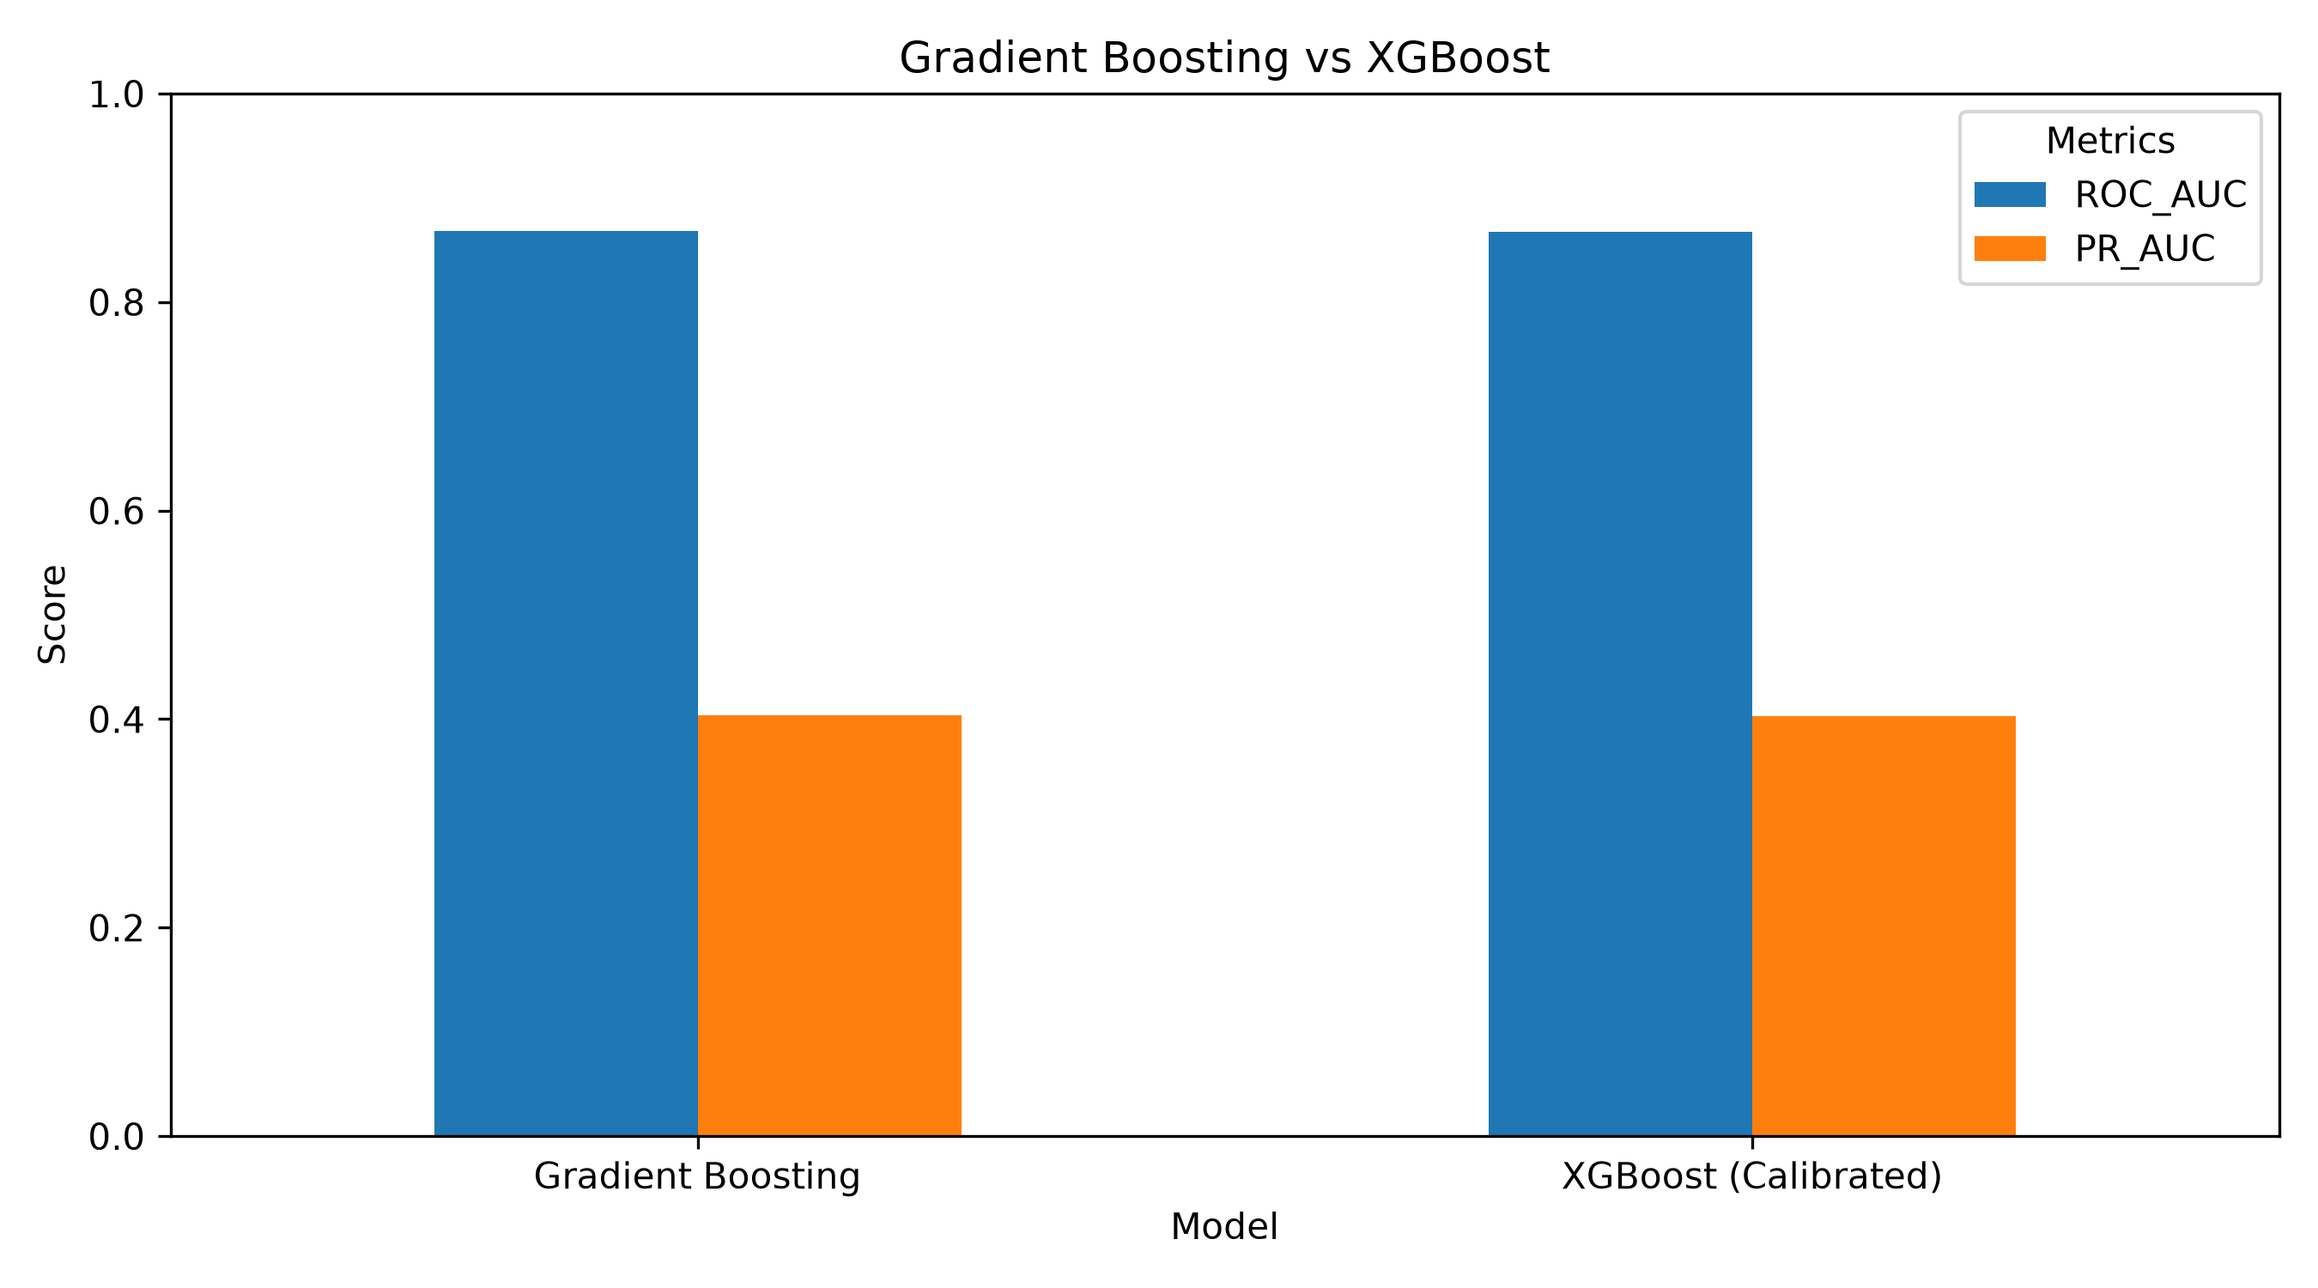
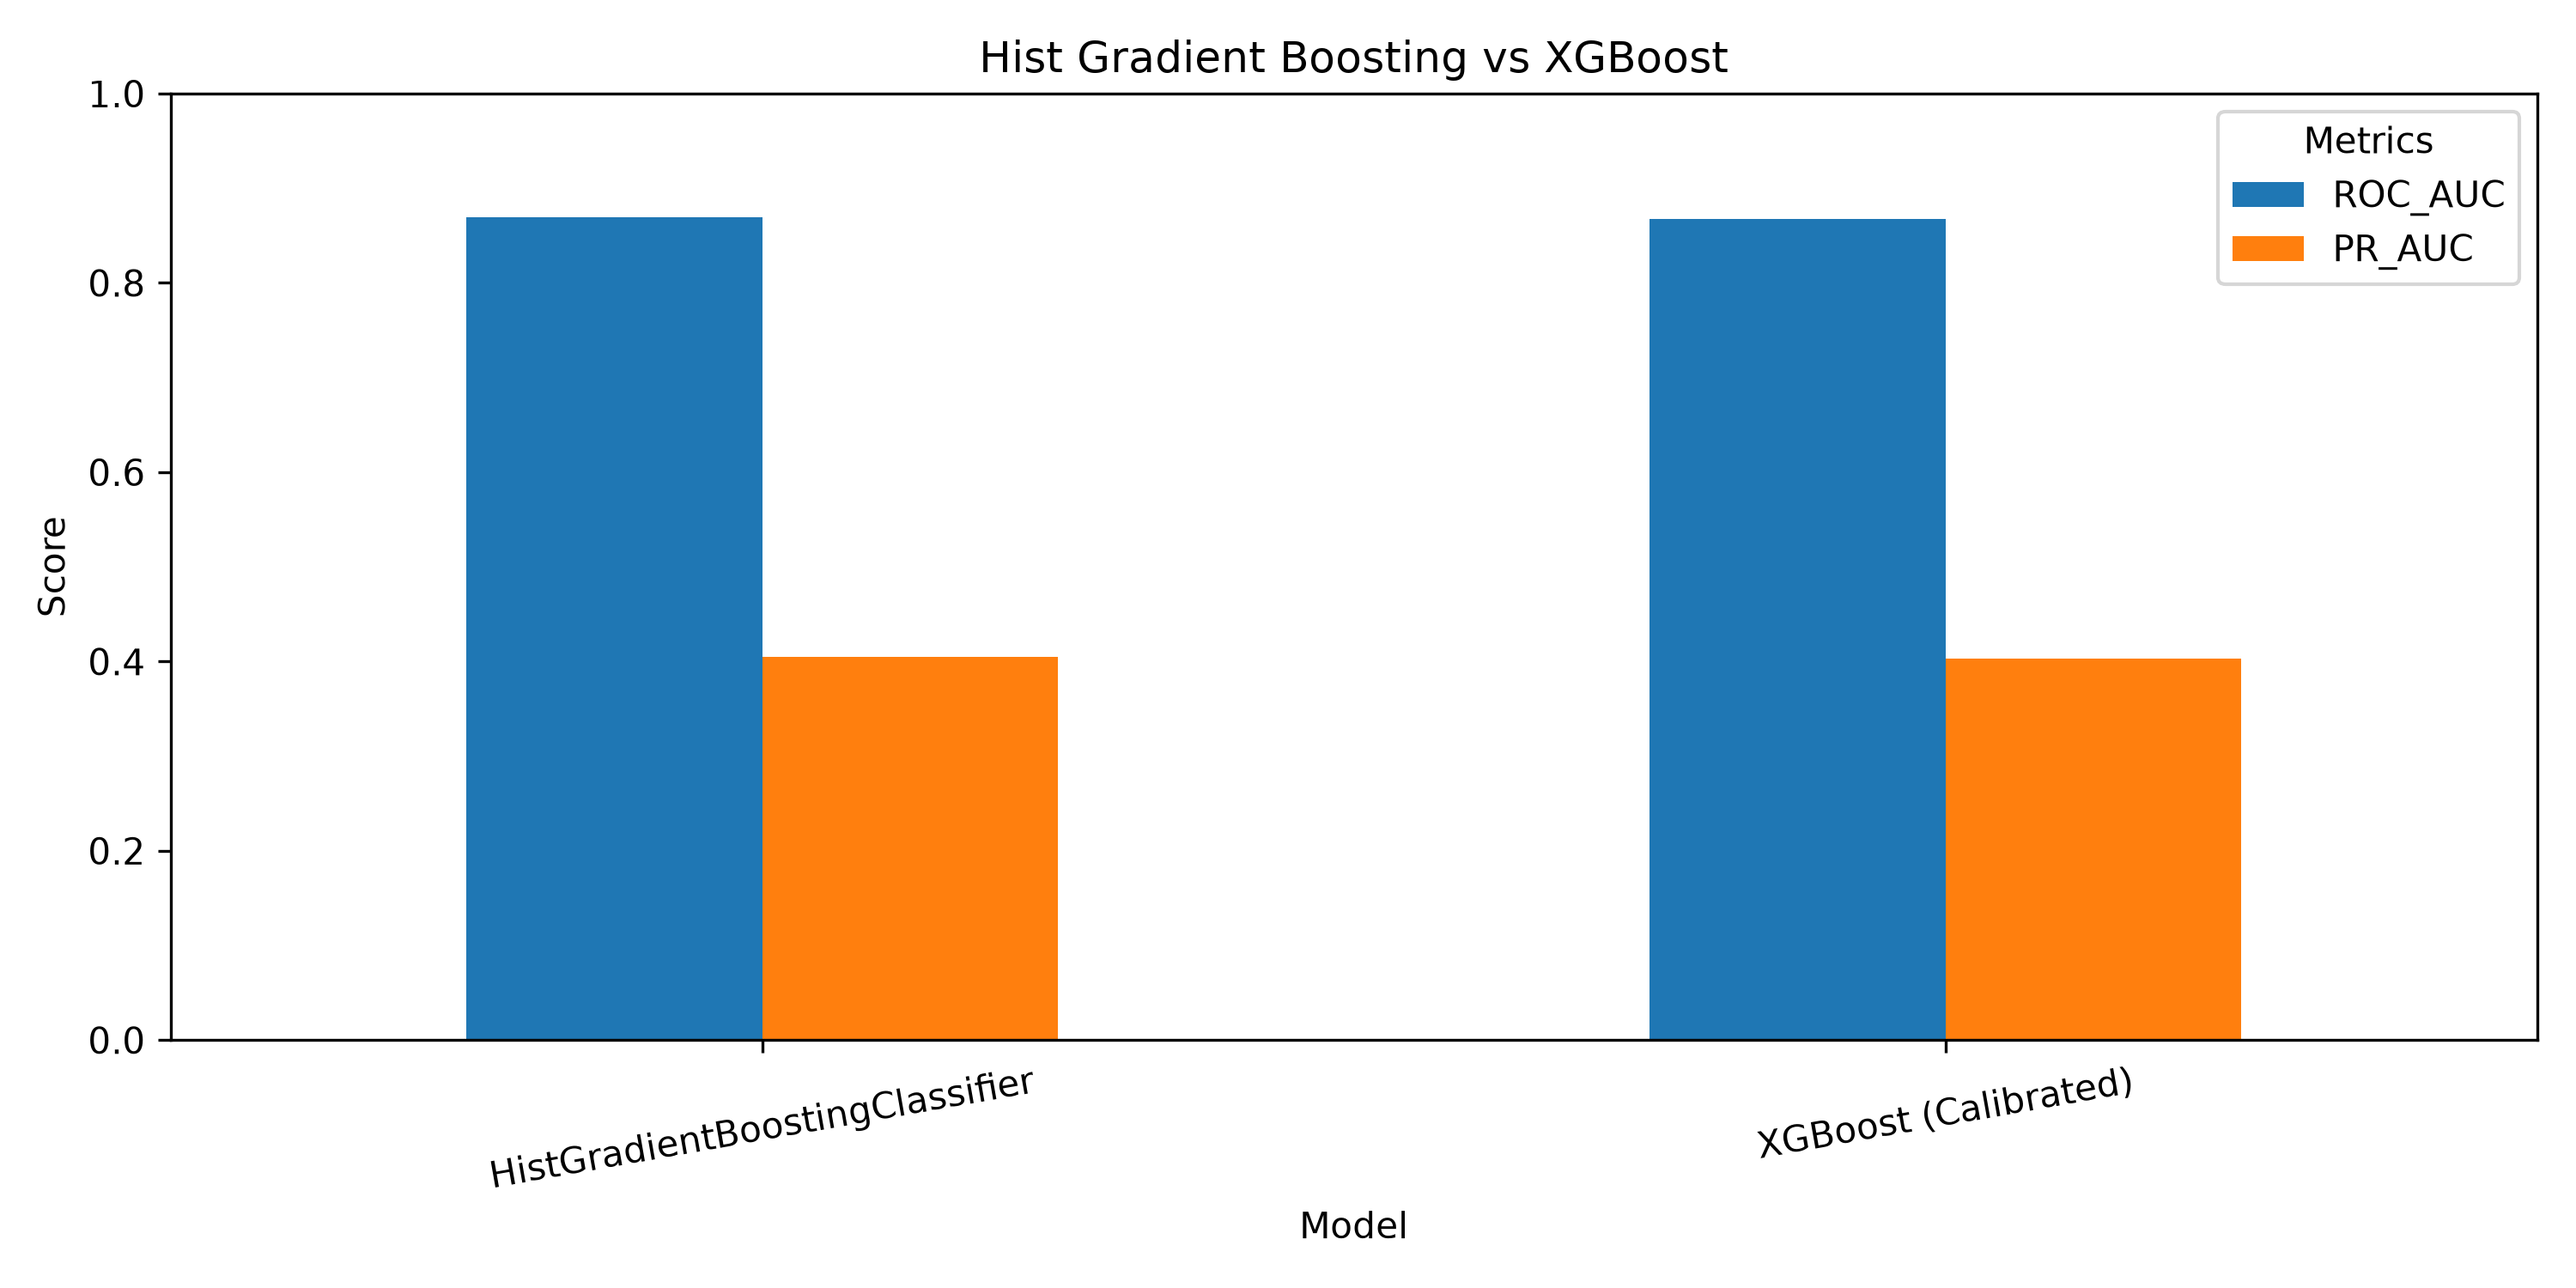
Add files via upload

diff --git a/member3_Contribution/member3_shap.py b/member3_Contribution/member3_shap.py
@@ -1,122 +1,124 @@
+
 import os
 import pandas as pd
 import numpy as np
 import matplotlib.pyplot as plt
 import shap
 
-from sklearn.ensemble import GradientBoostingClassifier
+from sklearn.ensemble import HistGradientBoostingClassifier
 from sklearn.metrics import (
     classification_report,
     confusion_matrix,
     roc_auc_score,
-    average_precision_score,
-    precision_recall_curve
+    average_precision_score
 )
 from sklearn.utils.class_weight import compute_sample_weight
 
-# Load the team's datasets
+# Load datasets
 train = pd.read_csv("train.csv")
 test = pd.read_csv("test.csv")
 
 target = "SeriousDlqin2yrs"
 
-# Separate features and target
 X_train = train.drop(columns=[target])
 y_train = train[target]
 
 X_test = test.drop(columns=[target])
 y_test = test[target]
 
-# Train Gradient Boosting with balanced sample weights
+# Balanced sample weights
 weights = compute_sample_weight("balanced", y_train)
 
-model = GradientBoostingClassifier(
-    n_estimators=100,
+# Hist Gradient Boosting Model
+model = HistGradientBoostingClassifier(
+    max_iter=100,
     learning_rate=0.1,
-    max_depth=3,
+    max_leaf_nodes=15,
     random_state=42
 )
 
 model.fit(X_train, y_train, sample_weight=weights)
 
-# Predict probabilities and classes
+# Predictions
 probabilities = model.predict_proba(X_test)[:, 1]
 predictions = (probabilities >= 0.5).astype(int)
 
-# Evaluation metrics
-print("Confusion Matrix:")
+# Evaluation
+print("MODEL: HistGradientBoostingClassifier")
+print("\nConfusion Matrix:")
 print(confusion_matrix(y_test, predictions))
 
 print("\nClassification Report:")
 print(classification_report(y_test, predictions, zero_division=0))
 
 print("ROC-AUC:", roc_auc_score(y_test, probabilities))
-print("PR-AUC (Average Precision):",
-      average_precision_score(y_test, probabilities))
+print("PR-AUC:", average_precision_score(y_test, probabilities))
 
-# SHAP explanations
-explainer = shap.TreeExplainer(model)
-shap_values = explainer.shap_values(X_test)
+# SHAP explanation using permutation explainer
+# HistGradientBoosting is explained through model predictions
+background = X_train.sample(
+    n=min(100, len(X_train)), random_state=42
+)
 
-# Global feature importance
-shap.summary_plot(shap_values, X_test, show=False)
+X_explain = X_test.sample(
+    n=min(500, len(X_test)), random_state=42
+)
+
+def predict_positive(data):
+    data = pd.DataFrame(data, columns=X_train.columns)
+    return model.predict_proba(data)[:, 1]
+
+explainer = shap.Explainer(
+    predict_positive,
+    background,
+    algorithm="permutation"
+)
+
+shap_values = explainer(
+    X_explain,
+    max_evals=2 * X_train.shape[1] + 1
+)
+
+# SHAP Summary Plot
+shap.summary_plot(shap_values, X_explain, show=False)
 plt.tight_layout()
 plt.savefig("shap_summary.png", bbox_inches="tight")
 plt.close()
 
-# Feature importance bar plot
+# SHAP Feature Importance
 shap.summary_plot(
-    shap_values, X_test, plot_type="bar", show=False
+    shap_values, X_explain, plot_type="bar", show=False
 )
 plt.tight_layout()
 plt.savefig("shap_feature_importance.png", bbox_inches="tight")
 plt.close()
 
-print("\nSHAP plots saved successfully.")
-
 # Waterfall Plot
-if isinstance(shap_values, list):
-    shap_values_2d = shap_values[1]
-else:
-    shap_values_2d = shap_values
-
-base_value = float(np.array(explainer.expected_value).flatten()[-1])
-
-explanation = shap.Explanation(
-    values=shap_values_2d[0],
-    base_values=base_value,
-    data=X_test.iloc[0].values,
-    feature_names=X_test.columns.tolist()
-)
-
-explanation = shap.Explanation(
-    values=shap_values_2d[0],
-    base_values=base_value,
-    data=X_test.iloc[0].values,
-    feature_names=X_test.columns.tolist()
-)
-
-shap.plots.waterfall(explanation, show=False)
+shap.plots.waterfall(shap_values[0], show=False)
+plt.tight_layout()
 plt.savefig("shap_waterfall.png", bbox_inches="tight")
 plt.close()
 
-# Dependence Plots - Top 3 Features
-importance = np.abs(shap_values_2d).mean(axis=0)
-top_features = X_test.columns[np.argsort(importance)[-3:]]
+# Top 3 Feature Dependence Plots
+importance = np.abs(shap_values.values).mean(axis=0)
+top_features = X_explain.columns[
+    np.argsort(importance)[-3:]
+]
 
 for feature in top_features:
     shap.dependence_plot(
         feature,
-        shap_values_2d,
-        X_test,
+        shap_values.values,
+        X_explain,
         show=False
     )
-    plt.savefig(f"dependence_{feature}.png", bbox_inches="tight")
+    plt.tight_layout()
+    plt.savefig(
+        f"dependence_{feature}.png",
+        bbox_inches="tight"
+    )
     plt.close()
 
-print("Waterfall and Dependence plots saved successfully.")
-
-
-print("SHAP VALUES SHAPE:", np.array(shap_values).shape)
-print("X_TEST SHAPE:", X_test.shape)
+print("\nAll SHAP plots saved successfully.")
+print("Explained samples:", X_explain.shape)
 print("Current folder:", os.getcwd())

diff --git a/member3_Contribution/model_comparison.py b/member3_Contribution/model_comparison.py
@@ -5,11 +5,11 @@ import matplotlib.pyplot as plt
 # Model comparison data
 data = {
     "Model": [
-        "Gradient Boosting",
+        "HistGradientBoostingClassifier",
         "XGBoost (Calibrated)"
     ],
-    "ROC_AUC": [0.8684, 0.8675],
-    "PR_AUC": [0.4034, 0.4028]
+    "ROC_AUC": [0.8694475181, 0.8675],
+    "PR_AUC": [0.4045809111, 0.4028]
 }
 
 df = pd.DataFrame(data)
@@ -23,11 +23,11 @@ print(df.to_string(index=False))
 # Create comparison graph
 ax = df.set_index("Model").plot(
     kind="bar",
-    figsize=(9, 5),
-    rot=0
+    figsize=(10, 5),
+    rot=10
 )
 
-plt.title("Gradient Boosting vs XGBoost")
+plt.title("Hist Gradient Boosting vs XGBoost")
 plt.ylabel("Score")
 plt.ylim(0, 1)
 plt.legend(title="Metrics")

diff --git a/member3_Contribution/member3_documentation.md b/member3_Contribution/member3_documentation.md
@@ -1,37 +1,50 @@
-
 # Member 3 – SHAP Explainability and Model Analysis
 
 ## 1. Project Overview
-This contribution focuses on model evaluation, explainability
-and comparison for the Credit Risk Assessment project.
+This contribution focuses on model evaluation, explainability, and comparison for the Credit Risk Assessment project.
 
 ## 2. Model Used
-GradientBoostingClassifier was used for SHAP analysis.
+The **HistGradientBoostingClassifier** from Scikit-learn was used for credit risk prediction and SHAP-based explainability.
+
+Balanced sample weights were applied during model training to address class imbalance.
 
 ## 3. Model Evaluation
-- Accuracy: 0.79
-- ROC-AUC: 0.8684
-- PR-AUC: 0.4034
+
+The model was evaluated on the test dataset containing 29,994 records.
+
+- Accuracy: 0.80
+- ROC-AUC: 0.8694
+- PR-AUC: 0.4046
 - Recall (Class 1): 0.79
-- Precision (Class 1): 0.21
+- Precision (Class 1): 0.22
+- F1-score (Class 1): 0.34
 
 ## 4. SHAP Analysis
+
+Permutation-based SHAP explanations were generated to understand the contribution of individual features to model predictions.
+
 The following visualizations were generated:
+
 - SHAP Summary Plot
 - SHAP Feature Importance Plot
 - SHAP Waterfall Plot
 - Three SHAP Dependence Plots
 
+SHAP analysis was performed on a sample of 500 test records.
+
 ## 5. Model Comparison
 
 | Model | ROC-AUC | PR-AUC |
 |---|---:|---:|
-| Gradient Boosting | 0.8684 | 0.4034 |
+| HistGradientBoostingClassifier | 0.8694 | 0.4046 |
 | XGBoost (Calibrated) | 0.8675 | 0.4028 |
 
 ## 6. Conclusion
-Both models achieved similar ROC-AUC and PR-AUC scores.
-Gradient Boosting showed slightly higher values on these
-two metrics in the available results.
-SHAP was used to interpret feature contributions and
-understand model predictions.
+
+HistGradientBoostingClassifier achieved a ROC-AUC of 0.8694 and PR-AUC of 0.4046.
+
+It showed slightly higher values than the calibrated XGBoost model in the available comparison results.
+
+SHAP was used to interpret feature contributions and improve the understanding of model predictions.
+
+The model achieved a recall of 0.79 for the high-risk class, helping identify a substantial proportion of potential defaulters. However, its precision of 0.22 indicates that some predicted high-risk cases were not actual defaulters.
